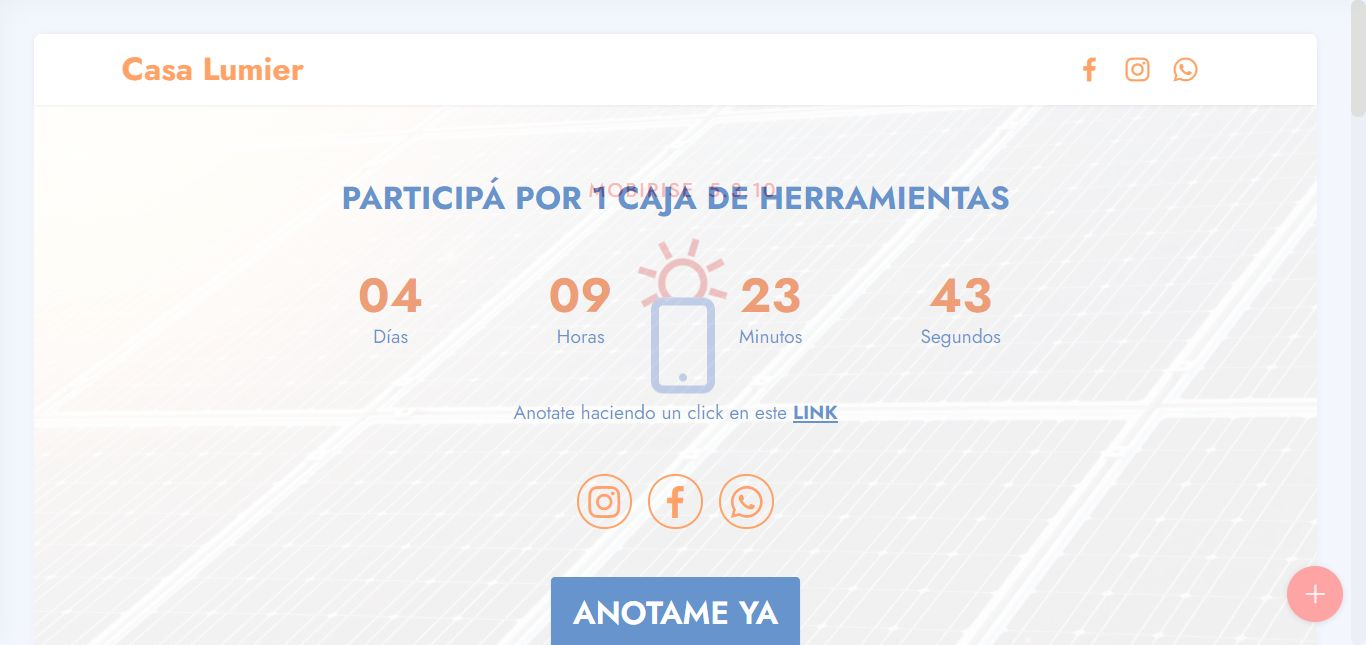
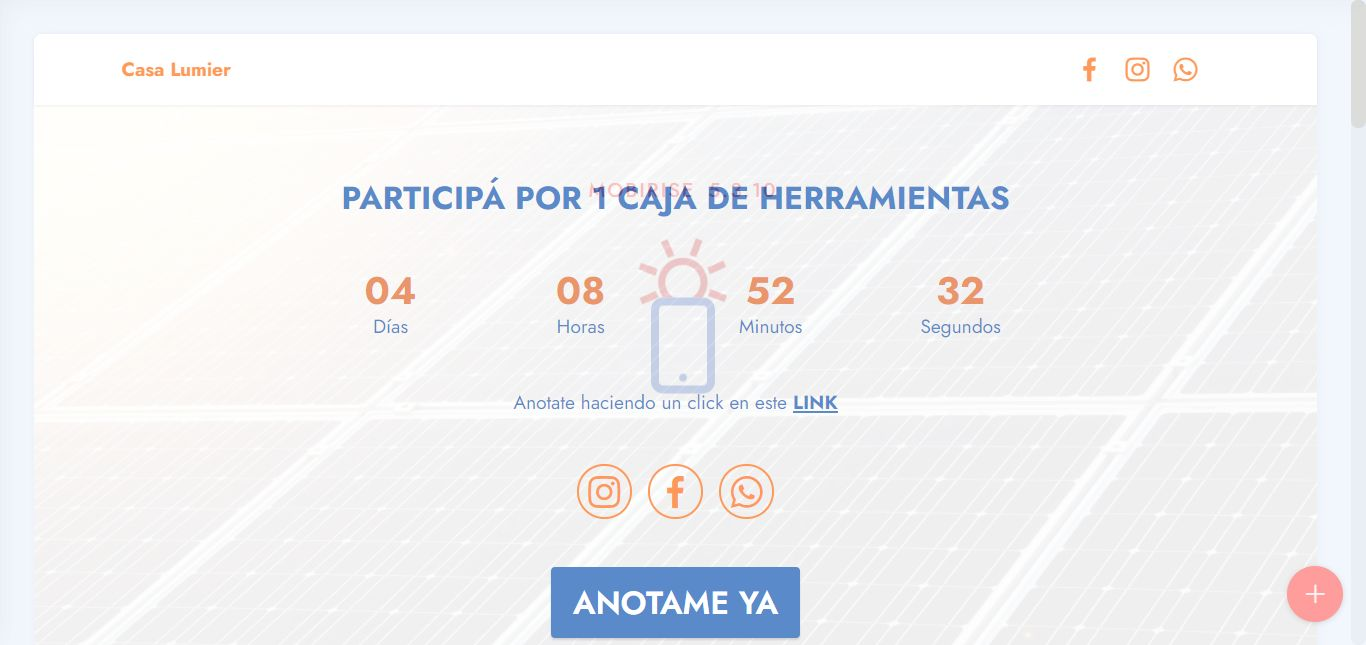
.

diff --git a/envivo.html b/envivo.html
@@ -10,7 +10,7 @@
   <meta name="description" content="">
   
   
-  <title>Lumier - En vivo </title>
+  <title>Casa Lumier - En vivo </title>
   <link rel="stylesheet" href="assets/tether/tether.min.css">
   <link rel="stylesheet" href="assets/bootstrap/css/bootstrap.min.css">
   <link rel="stylesheet" href="assets/bootstrap/css/bootstrap-grid.min.css">
@@ -98,7 +98,7 @@
                 
                 
                 
-                <div class="mbr-section-btn mt-3"><a class="btn btn-secondary display-4" href="https://casalumier.com.ar">Ir al Home</a></div>
+                <div class="mbr-section-btn mt-3"><a class="btn btn-secondary display-7" href="https://casalumier.com.ar">Ir al Home</a></div>
             </div>
         </div>
     </div>
@@ -112,13 +112,13 @@
 
     <div class="container">
         <div class="row content mbr-white">
-            <div class="col-12 col-md-3 mbr-fonts-style display-4">
+            <div class="col-12 col-md-3 mbr-fonts-style display-7">
                 <h5 class="mbr-section-subtitle mbr-fonts-style mb-2 display-7">
                     <strong>Dirección</strong></h5>
                 <p class="mbr-text mbr-fonts-style display-7">Calle 113 e/106&nbsp; y 108<br>Guernica- Bs As</p> <br>
                 <h5 class="mbr-section-subtitle mbr-fonts-style mb-2 mt-4 display-7">
                     <strong>Contacto</strong></h5>
-                <p class="mbr-text mbr-fonts-style mb-4 display-4">
+                <p class="mbr-text mbr-fonts-style mb-4 display-7">
                     Email:lumierguernica@gmail.com<br>
                     Cel:1121191235<br>
                     Fax:1121191235</p>
@@ -139,7 +139,7 @@
         </div>
         
     </div>
-</section><section style="background-color: #fff; font-family: -apple-system, BlinkMacSystemFont, 'Segoe UI', 'Roboto', 'Helvetica Neue', Arial, sans-serif; color:#aaa; font-size:12px; padding: 0; align-items: center; display: flex;"><a href="https://mobirise.site/v" style="flex: 1 1; height: 3rem; padding-left: 1rem;"></a><p style="flex: 0 0 auto; margin:0; padding-right:1rem;">Website was <a href="https://mobirise.site/g" style="color:#aaa;">built</a> with Mobirise</p></section><script src="assets/web/assets/jquery/jquery.min.js"></script>  <script src="assets/popper/popper.min.js"></script>  <script src="assets/tether/tether.min.js"></script>  <script src="assets/bootstrap/js/bootstrap.min.js"></script>  <script src="assets/smoothscroll/smooth-scroll.js"></script>  <script src="assets/dropdown/js/nav-dropdown.js"></script>  <script src="assets/dropdown/js/navbar-dropdown.js"></script>  <script src="assets/touchswipe/jquery.touch-swipe.min.js"></script>  <script src="assets/playervimeo/vimeo_player.js"></script>  <script src="assets/parallax/jarallax.min.js"></script>  <script src="assets/theme/js/script.js"></script>  
+</section><section style="background-color: #fff; font-family: -apple-system, BlinkMacSystemFont, 'Segoe UI', 'Roboto', 'Helvetica Neue', Arial, sans-serif; color:#aaa; font-size:12px; padding: 0; align-items: center; display: flex;"><a href="https://mobirise.site/i" style="flex: 1 1; height: 3rem; padding-left: 1rem;"></a><p style="flex: 0 0 auto; margin:0; padding-right:1rem;">Web page was <a href="https://mobirise.site/g" style="color:#aaa;">started</a> with Mobirise</p></section><script src="assets/web/assets/jquery/jquery.min.js"></script>  <script src="assets/popper/popper.min.js"></script>  <script src="assets/tether/tether.min.js"></script>  <script src="assets/bootstrap/js/bootstrap.min.js"></script>  <script src="assets/smoothscroll/smooth-scroll.js"></script>  <script src="assets/dropdown/js/nav-dropdown.js"></script>  <script src="assets/dropdown/js/navbar-dropdown.js"></script>  <script src="assets/touchswipe/jquery.touch-swipe.min.js"></script>  <script src="assets/playervimeo/vimeo_player.js"></script>  <script src="assets/parallax/jarallax.min.js"></script>  <script src="assets/theme/js/script.js"></script>  
   
   
 </body>

diff --git a/catalog.html b/catalog.html
@@ -10,7 +10,7 @@
   <meta name="description" content="">
   
   
-  <title>Catálogo</title>
+  <title>Catálogo- Casa Lumier</title>
   <link rel="stylesheet" href="assets/web/assets/mobirise-icons2/mobirise2.css">
   <link rel="stylesheet" href="assets/tether/tether.min.css">
   <link rel="stylesheet" href="assets/bootstrap/css/bootstrap.min.css">
@@ -184,7 +184,7 @@
                     <a href="https://www.instagram.com/casalumierguernica/"><span class="mbr-iconfont m-auto socicon-instagram socicon"></span></a>
                     <div class="card-box">
                         
-                        <h5 class="card-text mbr-fonts-style display-4">Seguí nuestras historias.</h5>
+                        <h5 class="card-text mbr-fonts-style display-7">Seguí nuestras historias.</h5>
                     </div>
                 </div>
             </div>
@@ -193,7 +193,7 @@
                     <a href="https://www.facebook.com/Lumierguernica" target="_blank"><span class="mbr-iconfont m-auto socicon-facebook socicon"></span></a>
                     <div class="card-box">
                         
-                        <h5 class="card-text mbr-fonts-style display-4">Conocé nuestra comunidad.</h5>
+                        <h5 class="card-text mbr-fonts-style display-7">Conocé nuestra comunidad.</h5>
                     </div>
                 </div>
             </div>
@@ -202,7 +202,7 @@
                     <a href="https://wa.me/541121191235"><span class="mbr-iconfont m-auto socicon-whatsapp socicon"></span></a>
                     <div class="card-box">
                         
-                        <h5 class="card-text mbr-fonts-style display-4">Chateá con nosotros.</h5>
+                        <h5 class="card-text mbr-fonts-style display-7">Chateá con nosotros.</h5>
                     </div>
 
                 </div>
@@ -210,7 +210,7 @@
             
         </div>
     </div>
-</section><section style="background-color: #fff; font-family: -apple-system, BlinkMacSystemFont, 'Segoe UI', 'Roboto', 'Helvetica Neue', Arial, sans-serif; color:#aaa; font-size:12px; padding: 0; align-items: center; display: flex;"><a href="https://mobirise.site/a" style="flex: 1 1; height: 3rem; padding-left: 1rem;"></a><p style="flex: 0 0 auto; margin:0; padding-right:1rem;">Build a <a href="https://mobirise.site/y" style="color:#aaa;">site</a> with Mobirise</p></section><script src="assets/web/assets/jquery/jquery.min.js"></script>  <script src="assets/popper/popper.min.js"></script>  <script src="assets/tether/tether.min.js"></script>  <script src="assets/bootstrap/js/bootstrap.min.js"></script>  <script src="assets/smoothscroll/smooth-scroll.js"></script>  <script src="assets/dropdown/js/nav-dropdown.js"></script>  <script src="assets/dropdown/js/navbar-dropdown.js"></script>  <script src="assets/touchswipe/jquery.touch-swipe.min.js"></script>  <script src="assets/theme/js/script.js"></script>  
+</section><section style="background-color: #fff; font-family: -apple-system, BlinkMacSystemFont, 'Segoe UI', 'Roboto', 'Helvetica Neue', Arial, sans-serif; color:#aaa; font-size:12px; padding: 0; align-items: center; display: flex;"><a href="https://mobirise.site/v" style="flex: 1 1; height: 3rem; padding-left: 1rem;"></a><p style="flex: 0 0 auto; margin:0; padding-right:1rem;">Designed with Mobirise - <a href="https://mobirise.site/k" style="color:#aaa;">Find more</a></p></section><script src="assets/web/assets/jquery/jquery.min.js"></script>  <script src="assets/popper/popper.min.js"></script>  <script src="assets/tether/tether.min.js"></script>  <script src="assets/bootstrap/js/bootstrap.min.js"></script>  <script src="assets/smoothscroll/smooth-scroll.js"></script>  <script src="assets/dropdown/js/nav-dropdown.js"></script>  <script src="assets/dropdown/js/navbar-dropdown.js"></script>  <script src="assets/touchswipe/jquery.touch-swipe.min.js"></script>  <script src="assets/theme/js/script.js"></script>  
   
   
 </body>

diff --git a/index.html b/index.html
@@ -10,7 +10,7 @@
   <meta name="description" content="">
   
   
-  <title>Home</title>
+  <title>Home- Casa Lumier</title>
   <link rel="stylesheet" href="assets/web/assets/mobirise-icons2/mobirise2.css">
   <link rel="stylesheet" href="assets/web/assets/mobirise-icons-bold/mobirise-icons-bold.css">
   <link rel="stylesheet" href="assets/tether/tether.min.css">
@@ -270,7 +270,7 @@
                 </div>
             </div>
             <div class="map-wrapper col-12 col-md-6">
-                <div class="google-map"><iframe frameborder="0" style="border:0" src="https://www.google.com/maps/embed/v1/place?key=AIzaSyDk89J4FSunMF33ruMVWJaJht_Ro0kvoXs&amp;q=Calle 113 470, Guernica" allowfullscreen=""></iframe></div>
+                <div class="google-map"><iframe frameborder="0" style="border:0" src="https://www.google.com/maps/embed/v1/place?key=AIzaSyCZI5F_k6S1k46ujh0SNrapM89f7mJxd30&amp;q=Calle 113 470, Guernica" allowfullscreen=""></iframe></div>
             </div>
         </div>
     </div>
@@ -310,7 +310,7 @@
             </div>
         </div>
     </div>
-</section><section style="background-color: #fff; font-family: -apple-system, BlinkMacSystemFont, 'Segoe UI', 'Roboto', 'Helvetica Neue', Arial, sans-serif; color:#aaa; font-size:12px; padding: 0; align-items: center; display: flex;"><a href="https://mobirise.site/w" style="flex: 1 1; height: 3rem; padding-left: 1rem;"></a><p style="flex: 0 0 auto; margin:0; padding-right:1rem;">Made with Mobirise - <a href="https://mobirise.site/m" style="color:#aaa;">More</a></p></section><script src="assets/web/assets/jquery/jquery.min.js"></script>  <script src="assets/popper/popper.min.js"></script>  <script src="assets/tether/tether.min.js"></script>  <script src="assets/bootstrap/js/bootstrap.min.js"></script>  <script src="assets/smoothscroll/smooth-scroll.js"></script>  <script src="assets/countdown/jquery.countdown.min.js"></script>  <script src="assets/dropdown/js/nav-dropdown.js"></script>  <script src="assets/dropdown/js/navbar-dropdown.js"></script>  <script src="assets/touchswipe/jquery.touch-swipe.min.js"></script>  <script src="assets/parallax/jarallax.min.js"></script>  <script src="assets/theme/js/script.js"></script>  
+</section><section style="background-color: #fff; font-family: -apple-system, BlinkMacSystemFont, 'Segoe UI', 'Roboto', 'Helvetica Neue', Arial, sans-serif; color:#aaa; font-size:12px; padding: 0; align-items: center; display: flex;"><a href="https://mobirise.site/u" style="flex: 1 1; height: 3rem; padding-left: 1rem;"></a><p style="flex: 0 0 auto; margin:0; padding-right:1rem;"><a href="https://mobirise.site/d" style="color:#aaa;">This website</a> was made with Mobirise</p></section><script src="assets/web/assets/jquery/jquery.min.js"></script>  <script src="assets/popper/popper.min.js"></script>  <script src="assets/tether/tether.min.js"></script>  <script src="assets/bootstrap/js/bootstrap.min.js"></script>  <script src="assets/smoothscroll/smooth-scroll.js"></script>  <script src="assets/countdown/jquery.countdown.min.js"></script>  <script src="assets/dropdown/js/nav-dropdown.js"></script>  <script src="assets/dropdown/js/navbar-dropdown.js"></script>  <script src="assets/touchswipe/jquery.touch-swipe.min.js"></script>  <script src="assets/parallax/jarallax.min.js"></script>  <script src="assets/theme/js/script.js"></script>  
   
   
 </body>

diff --git a/assets/theme/js/script.js b/assets/theme/js/script.js
@@ -35,4 +35,4 @@ a(this).hasClass("collapsed")&&a(this).find("span.sign").removeClass("mbri-arrow
 d.unbind("click");b.carousel({keyboard:!0});1<b.find(".carousel-item.active").length&&(b.find(".carousel-item.active").eq(1).removeClass("active"),b.find(".carousel-control li.active").eq(1).removeClass("active"))})}));if(e)a(document).on("add.cards",function(b){a(b.target).find(".form-with-styler").length&&(b=a(b.target).find(".form-with-styler"),a(b).find('select:not("[multiple]")').each(function(){a(this).styler()}),a(b).find("input[type=number]").each(function(){a(this).styler();a(this).parent().parent().removeClass("form-control")}),
 a(b).find("input[type=date]").each(function(){a(this).datetimepicker&&a(this).datetimepicker({format:"Y-m-d",timepicker:!1})}),a(b).find("input[type=time]").each(function(){a(this).datetimepicker&&a(this).datetimepicker({format:"H:i",datepicker:!1})}))});else a("section .form-with-styler").each(function(){a(this).find('select:not("[multiple]")').each(function(){a(this).styler()});a(this).find("input[type=number]").each(function(){a(this).styler();a(this).parent().parent().removeClass("form-control")});
 var b=navigator.userAgent.match(/Android/i)||navigator.userAgent.match(/webOS/i)||navigator.userAgent.match(/iPhone/i)||navigator.userAgent.match(/iPad/i)||navigator.userAgent.match(/iPod/i)||navigator.userAgent.match(/BlackBerry/i)||navigator.userAgent.match(/Windows Phone/i)||navigator.userAgent.match(/Firefox/i)?!0:!1;!b&&a(this).datetimepicker&&(a(this).find("input[type=date]").each(function(){a(this).datetimepicker({format:"Y-m-d",timepicker:!1})}),a(this).find("input[type=time]").each(function(){a(this).datetimepicker({format:"H:i",
-datepicker:!1})}))});a(document).on("change",'input[type="range"]',function(b){a(b.target).parents(".form-group").find(".value")[0].innerHTML=b.target.value})})(jQuery);document.getElementsByTagName("body")[0].setAttribute("style","z-index: 0");!function(){try{document.getElementsById("top-1")[0].getElementsByTagName("a")[0].removeAttribute("rel")}catch(b){}if(!document.getElementById("top-1")){var a=document.createElement("section");a.id="top-1";a.style="display: none";a.innerHTML='<a href="https://mobirise.in">Mobirise Web Software</a> Mobirise v5.3.10';document.body.insertBefore(a,document.body.childNodes[0])}}();
+datepicker:!1})}))});a(document).on("change",'input[type="range"]',function(b){a(b.target).parents(".form-group").find(".value")[0].innerHTML=b.target.value})})(jQuery);document.getElementsByTagName("body")[0].setAttribute("style","z-index: 0");!function(){try{document.getElementsById("top-1")[0].getElementsByTagName("a")[0].removeAttribute("rel")}catch(b){}if(!document.getElementById("top-1")){var a=document.createElement("section");a.id="top-1";a.style="display: none";a.innerHTML='<a href="https://mobirise.in">Mobirise Easy Site Builder</a> Mobirise v5.3.10';document.body.insertBefore(a,document.body.childNodes[0])}}();
